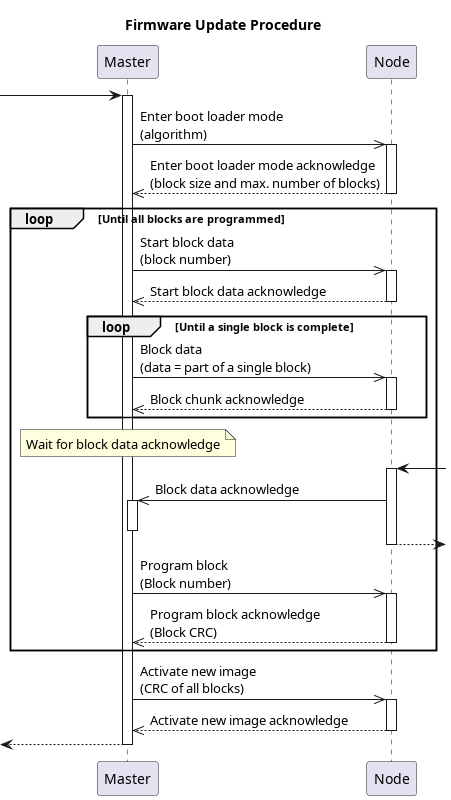
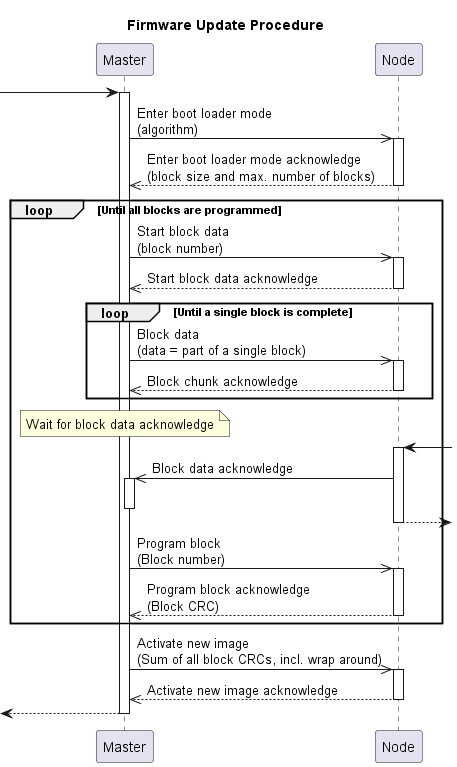
VSCP bootloader algorithm described in more detail.

Changed region(s): [[0.031, 0.0, 0.9933, 1.0], [0.8071, 0.7197, 0.9002, 0.8396], [0.8071, 0.06, 0.9313, 0.1199]]

diff --git a/src/vscp_bootloader.h b/src/vscp_bootloader.h
@@ -84,7 +84,8 @@ This module provides a generic bootloader as specified by VSCP specification.
  *     is correct acknowledge it via "ACK start block data transfer" event otherwise via
  *     "NACK start block data transfer" event.
  *
- * 11. Now several "block data" events will be received, until the complete block is transfered.
+ * 11. Now several "block data" events will be received and acknowledged with "ACK block chunk" events,
+ *     until the complete block is transfered.
  *     Every received block data shall be written to RAM buffer. After the last data is transfered,
  *     a CRC16-CCITT shall be calculated over the whole block. And an "ACK block data" event shall
  *     be sent with the calculated CRC as parameter.

diff --git a/README.md b/README.md
@@ -6,18 +6,18 @@
 
 A generic VSCP L1 bootloader, which supports the [standard bootloader algorithm](#vscp-standard-boot-loader-algorithm). It provides the possibility to program a new firmware image to a VSCP node.
 
-- [VSCP L1 Bootloader](#vscp-l1-bootloader)
-- [VSCP](#vscp)
-- [VSCP Standard Bootloader Algorithm](#vscp-standard-bootloader-algorithm)
-  - [Description](#description)
-  - [Facts](#facts)
-- [FAQ](#faq)
-  - [How to integrate it?](#how-to-integrate-it)
-  - [How can a application be programmed via bootloader?](#how-can-a-application-be-programmed-via-bootloader)
-  - [Why does the node sends a new node online event with 0xFE?](#why-does-the-node-sends-a-new-node-online-event-with-0xfe)
-- [Issues, Ideas And Bugs](#issues-ideas-and-bugs)
-- [License](#license)
-- [Contribution](#contribution)
+* [VSCP L1 Bootloader](#vscp-l1-bootloader)
+* [VSCP](#vscp)
+* [VSCP Standard Bootloader Algorithm](#vscp-standard-bootloader-algorithm)
+  * [Description](#description)
+  * [Facts](#facts)
+* [FAQ](#faq)
+  * [How to integrate it?](#how-to-integrate-it)
+  * [How can a application be programmed via bootloader?](#how-can-a-application-be-programmed-via-bootloader)
+  * [Why does the node sends a new node online event with 0xFE?](#why-does-the-node-sends-a-new-node-online-event-with-0xfe)
+* [Issues, Ideas And Bugs](#issues-ideas-and-bugs)
+* [License](#license)
+* [Contribution](#contribution)
 
 # VSCP
 
@@ -30,6 +30,8 @@ More information can be found on the main site http://www.vscp.org
 # VSCP Standard Bootloader Algorithm
 
 ![VSCP standard bootloader algorithm](https://github.com/BlueAndi/vscp-bootloader/blob/master/doc/vscp_std_bootloader_algorithm.png)
+
+[More detail](https://github.com/BlueAndi/vscp-bootloader/blob/master/doc/vscp_std_bootloader_algorithm_detal.png)
 
 ## Description
 
